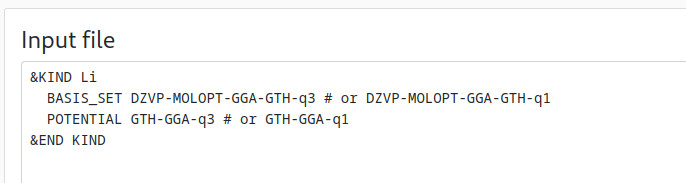
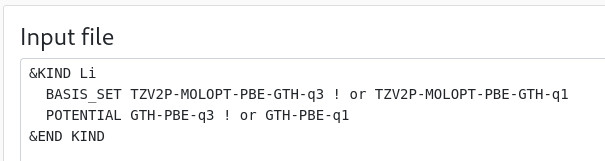
fix #3

Changed region(s): [[0.0298, 0.1553, 1.0, 0.9006], [0.0, 0.0311, 1.0, 0.0621]]

diff --git a/cp2k_basis_webservice/assets/scripts.js b/cp2k_basis_webservice/assets/scripts.js
@@ -232,21 +232,21 @@ export class Controller  {
             if(variants.length === 0) {
                 kind += `# No compatible variant for ${e}: [basis set=${Object.keys(this.basisSetVariants[e])}] and [pseudo=${Object.keys(this.pseudoVariants[e])}].\n`;
             } else {
-                /* by default, select the variant with the largest q, since it is the mostly available
+                /* by default, select the variant with the largest q (least core electrons), since it is the mostly available
                 * */
                 let variant = `q` + Math.max(...variants.map(e => parseInt(e.substring(1))));
 
                 if(this.basisSetSelected.length > 0) {
                     kind += `  BASIS_SET ${this.basisSetVariants[e][variant]}`;
                     if(variants.length > 1)
-                        kind += ` # or ${variants.filter(v => v !== variant).map(v => this.basisSetVariants[e][v])}`;
+                        kind += ` ! or ${variants.filter(v => v !== variant).map(v => this.basisSetVariants[e][v])}`;
                     kind += '\n';
                 }
 
                 if(this.pseudoSelected.length > 0) {
                     kind += `  POTENTIAL ${this.pseudoVariants[e][variant]}`;
                     if(variants.length > 1)
-                        kind += ` # or ${variants.filter(v => v !== variant).map(v => this.pseudoVariants[e][v])}`;
+                        kind += ` ! or ${variants.filter(v => v !== variant).map(v => this.pseudoVariants[e][v])}`;
                     kind += '\n';
                 }
             }

diff --git a/cp2k_basis/base_objects.py b/cp2k_basis/base_objects.py
@@ -24,7 +24,8 @@ class BaseAtomicVariantDataObject:
 
     def preferred_name(self, family_name: str, variant: str) -> str:
         """Select one of the `self.names`, hopefully containing the family name and the variant.
-        If not, try to select one that contains the variant, and if not, return the first name.
+        If not, try to select one that contains the variant, and if not the family name, and if not,
+        return the first name.
         """
 
         try:
@@ -33,7 +34,10 @@ class BaseAtomicVariantDataObject:
             try:
                 return next(filter(lambda x: variant in x, self.names))
             except StopIteration:
-                return self.names[0]
+                try:
+                    return next(filter(lambda x: family_name in x, self.names))
+                except StopIteration:
+                    return self.names[0]
 
     def dump_hdf5(self, group: h5py.Group):
         """Dump in HDF5"""

diff --git a/docs/users/webserver.md b/docs/users/webserver.md
@@ -24,19 +24,19 @@ In particular, your input looks like:
           H      11.922476       1.573799       9.986994
         &END COORD
         &KIND H
-          BASIS_SET ??  # <- pick one
-          POTENTIAL ??  # <- pick one
+          BASIS_SET ??  ! <- pick one
+          POTENTIAL ??  ! <- pick one
         &END KIND
         &KIND O
-          BASIS_SET ??  # <- pick one
-          POTENTIAL ??  # <- pick one
+          BASIS_SET ??  ! <- pick one
+          POTENTIAL ??  ! <- pick one
         &END KIND
     &END SUBSYS
     &DFT
-        BASIS_SET_FILE_NAME  BASIS_SET      # <- should contain your basis set(s)
-        POTENTIAL_FILE_NAME  GTH_POTENTIALS # <- should contain your pseudo(s)
+        BASIS_SET_FILE_NAME  BASIS_SET      ! <- should contain your basis set(s)
+        POTENTIAL_FILE_NAME  GTH_POTENTIALS ! <- should contain your pseudo(s)
         &XC
-          &XC_FUNCTIONAL ??  # <- pick one
+          &XC_FUNCTIONAL ??  ! <- pick one
           &END XC_FUNCTIONAL
         &END XC
         # (...)
@@ -99,7 +99,7 @@ This has two (interesting!) side effects:
      
     ![](../images/webserver_kind_panel_multiple.jpg)
 
-    In this case, you can safely replace `-q3` by `-q1` for both the basis set and the potential, since they are both available (see the two panels in the top). It will, of course, impact the results.
+    In this case, you can safely replace `-q3` (all-electron) by `-q1` (2 core electron embedded in the pseudopotential) for both the basis set and the potential, since they are both available (see the two panels in the top). It will, of course, impact the results.
 
 2. If you select combination that are incompatible (e.g., the all-electron pseudopotential `ALL` with a pseudo basis set), it will be indicated:
 
